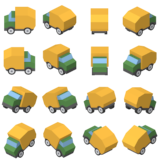
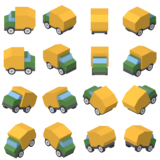
Entity heading

Changed region(s): [[0.5, 0.7812, 1.0, 1.0], [0.5, 0.5312, 1.0, 0.75], [0.7812, 0.5625, 0.8125, 0.5938]]

diff --git a/src/app/Entities/GarbageTruck.ts b/src/app/Entities/GarbageTruck.ts
@@ -1,43 +1,54 @@
-import Vector from "../../Vector";
+import Vector from "../Vector";
 import Entity from "../Entity";
 import { Direction } from "../library/Direction";
+import SpriteSheet from "../SpriteSheet";
 
 export default class GarbageTruck extends Entity {
-  public update() {
-    this.velocity = this.velocity.rotate(2);
+  constructor(spriteSheet: SpriteSheet) {
+    super(spriteSheet);
+  }
 
-    this.currentSprite = this.spriteSheet.get(this.getDirection());
+  public update(): void {
+    this.velocity = this.velocity.rotate(3);
+    this.heading = this.velocity;
+
+    // console.log("velocity: ", this.velocity.toString());
+    // console.log("heading: ", this.heading.toString());
+
+    this.currentSprite = this.spriteSheet.get(this.getHeading());
 
     this.getPosition().add(this.velocity);
   }
 
-  public setVelocity(velocity: Vector) {
+  public setVelocity(velocity: Vector): void {
     this.velocity = velocity;
   }
 
-  private getDirection() {
-    const north = new Vector(0, 1);
-    const angle = this.velocity.angleBetween360(north);
+  private getHeading(): Direction {
+    const north = new Vector(0, -1);
+    const angle = this.heading.angleBetween(north);
 
-    if (22.5 + 45 * 0 < angle && angle <= 22.5 + 45 * 1) {
+    const OFFSET = 22.5;
+
+    if (OFFSET + 45 * 0 < angle && angle <= OFFSET + 45 * 1) {
       return Direction.NORTH_EAST;
     }
-    if (22.5 + 45 * 1 < angle && angle <= 22.5 + 45 * 2) {
+    if (OFFSET + 45 * 1 < angle && angle <= OFFSET + 45 * 2) {
       return Direction.EAST;
     }
-    if (22.5 + 45 * 2 < angle && angle <= 22.5 + 45 * 3) {
+    if (OFFSET + 45 * 2 < angle && angle <= OFFSET + 45 * 3) {
       return Direction.SOUTH_EAST;
     }
-    if (22.5 + 45 * 3 < angle && angle <= 22.5 + 45 * 4) {
+    if (OFFSET + 45 * 3 < angle && angle <= OFFSET + 45 * 4) {
       return Direction.SOUTH;
     }
-    if (22.5 + 45 * 4 < angle && angle <= 22.5 + 45 * 5) {
+    if (OFFSET + 45 * 4 < angle && angle <= OFFSET + 45 * 5) {
       return Direction.SOUTH_WEST;
     }
-    if (22.5 + 45 * 5 < angle && angle <= 22.5 + 45 * 6) {
+    if (OFFSET + 45 * 5 < angle && angle <= OFFSET + 45 * 6) {
       return Direction.WEST;
     }
-    if (22.5 + 45 * 6 < angle && angle <= 22.5 + 45 * 7) {
+    if (OFFSET + 45 * 6 < angle && angle <= OFFSET + 45 * 7) {
       return Direction.NORTH_WEST;
     }
 

diff --git a/src/app/main.ts b/src/app/main.ts
@@ -1,5 +1,5 @@
 import { forkJoin } from "rxjs";
-import Vector from "../Vector";
+import Vector from "./Vector";
 import Canvas from "./Canvas";
 import GarbageTruck from "./Entities/GarbageTruck";
 import { loadImage } from "./library/loaders";
@@ -19,18 +19,17 @@ forkJoin({
   groundSpriteSheet.define("grass-1", 128, 0);
 
   const garbageTruckSpriteSheet = new SpriteSheet(garbageTruckSprites);
-  garbageTruckSpriteSheet.define("N", 90, 8, 19, 27);
-  garbageTruckSpriteSheet.define("NW", 42, 5, 35, 30);
-  garbageTruckSpriteSheet.define("W", 4, 6, 32, 29);
-  garbageTruckSpriteSheet.define("SW", 123, 45, 34, 32);
-  garbageTruckSpriteSheet.define("S", 90, 46, 19, 30);
-  garbageTruckSpriteSheet.define("SE", 42, 43, 35, 33);
-  garbageTruckSpriteSheet.define("E", 3, 47, 33, 28);
-  garbageTruckSpriteSheet.define("NE", 122, 6, 35, 30);
+  garbageTruckSpriteSheet.define("N", 90, 8, 19, 27, new Vector(10, 16));
+  garbageTruckSpriteSheet.define("NW", 42, 5, 35, 30, new Vector(17, 19));
+  garbageTruckSpriteSheet.define("W", 4, 6, 32, 29, new Vector(15, 18));
+  garbageTruckSpriteSheet.define("SW", 123, 45, 34, 32, new Vector(17, 18));
+  garbageTruckSpriteSheet.define("S", 90, 46, 19, 30, new Vector(10, 17));
+  garbageTruckSpriteSheet.define("SE", 42, 43, 35, 33, new Vector(18, 20));
+  garbageTruckSpriteSheet.define("E", 3, 47, 33, 28, new Vector(17, 17));
+  garbageTruckSpriteSheet.define("NE", 122, 6, 35, 30, new Vector(18, 18));
 
   const garbageTruck = new GarbageTruck(garbageTruckSpriteSheet);
   garbageTruck.setPosition(new Vector(550, 250));
-  garbageTruck.setVelocity(new Vector(2, 1));
 
   const tileRenderer = new TileRenderer(9, 9, groundSpriteSheet, tileMap);
 
@@ -41,6 +40,8 @@ forkJoin({
     garbageTruck.draw(canvas.context);
     requestAnimationFrame(update);
   }
+
+  document.body.addEventListener("keypress", () => update(0));
 
   update(0);
 });

diff --git a/src/app/Vector.ts b/src/app/Vector.ts
@@ -28,7 +28,9 @@ export default class Vector {
   }
 
   public magnitude(): number {
-    return Math.sqrt(this.x * this.x + this.y * this.y);
+    return Math.sqrt(
+      Math.pow(this.x, 2) + Math.pow(this.y, 2) + Math.pow(this.z, 2)
+    );
   }
 
   public rotate(degrees: number): Vector {
@@ -51,21 +53,25 @@ export default class Vector {
   }
 
   public angleBetween180(other: Vector): number {
-    return Math.acos(
-      (this.x * other.x - this.y * other.y) /
-        (this.magnitude() * other.magnitude())
+    return (
+      Math.acos(this.dot(other) / (this.magnitude() * other.magnitude())) *
+      (180 / Math.PI)
     );
   }
 
-  public angleBetween360(other: Vector): number {
-    // var skalar = this.dot(other);
-    var angle = this.angleBetween180(other) * (180 / Math.PI);
-    var zCross = this.cross(other).z;
+  public angleBetween(other: Vector): number {
+    const angle = this.angleBetween180(other);
 
-    if (zCross < 0) {
+    const zCross = this.cross(other).z;
+
+    if (zCross > 0) {
       return 360 - angle;
     }
 
     return angle;
+  }
+
+  public toString(): string {
+    return `[${this.x.toFixed(2)}, ${this.y.toFixed(2)}, ${this.z.toFixed(2)}]`;
   }
 }

diff --git a/src/app/Entity.ts b/src/app/Entity.ts
@@ -1,11 +1,13 @@
-import Vector from "../Vector";
+import Vector from "./Vector";
 import { Drawable } from "./library/Drawable";
 import Sprite from "./Sprite";
 import SpriteSheet from "./SpriteSheet";
 
 export default abstract class Entity implements Drawable {
   private _position = new Vector();
-  private _velocity = new Vector();
+  private _velocity = new Vector(0, -4);
+  private _heading = new Vector(0, -1);
+
   private _currentSprite: Sprite;
 
   constructor(protected spriteSheet: SpriteSheet) {}
@@ -32,6 +34,14 @@ export default abstract class Entity implements Drawable {
 
   protected set currentSprite(sprite: Sprite) {
     this._currentSprite = sprite;
+  }
+
+  protected get heading(): Vector {
+    return this._heading;
+  }
+
+  protected set heading(vector: Vector) {
+    this._heading = vector;
   }
 
   public draw(context: CanvasRenderingContext2D): void {

diff --git a/src/app/SpriteSheet.ts b/src/app/SpriteSheet.ts
@@ -1,4 +1,4 @@
-import { Drawable } from "./library/Drawable";
+import Vector from "./Vector";
 import Sprite from "./Sprite";
 
 export default class SpriteSheet {
@@ -15,8 +15,7 @@ export default class SpriteSheet {
     y: number,
     width?: number,
     height?: number,
-    originX?: number,
-    originY?: number
+    origin?: Vector
   ): void {
     const buffer = document.createElement("canvas");
     buffer.width = width ? width : this.spriteWidth;
@@ -36,7 +35,7 @@ export default class SpriteSheet {
         buffer.height
       );
 
-    const sprite = new Sprite(buffer);
+    const sprite = new Sprite(buffer, origin);
     this.sprites.set(name, sprite);
   }
 

diff --git a/src/app/Sprite.ts b/src/app/Sprite.ts
@@ -1,7 +1,11 @@
+import Vector from "./Vector";
 import { Drawable } from "./library/Drawable";
 
 export default class Sprite implements Drawable {
-  constructor(private _buffer: HTMLCanvasElement) {}
+  constructor(
+    private _buffer: HTMLCanvasElement,
+    private origin: Vector = new Vector()
+  ) {}
 
   public get buffer(): HTMLCanvasElement {
     return this._buffer;
@@ -16,6 +20,6 @@ export default class Sprite implements Drawable {
   }
 
   public draw(context: CanvasRenderingContext2D, x: number, y: number): void {
-    context.drawImage(this._buffer, x, y);
+    context.drawImage(this._buffer, x - this.origin.x, y - this.origin.y);
   }
 }
